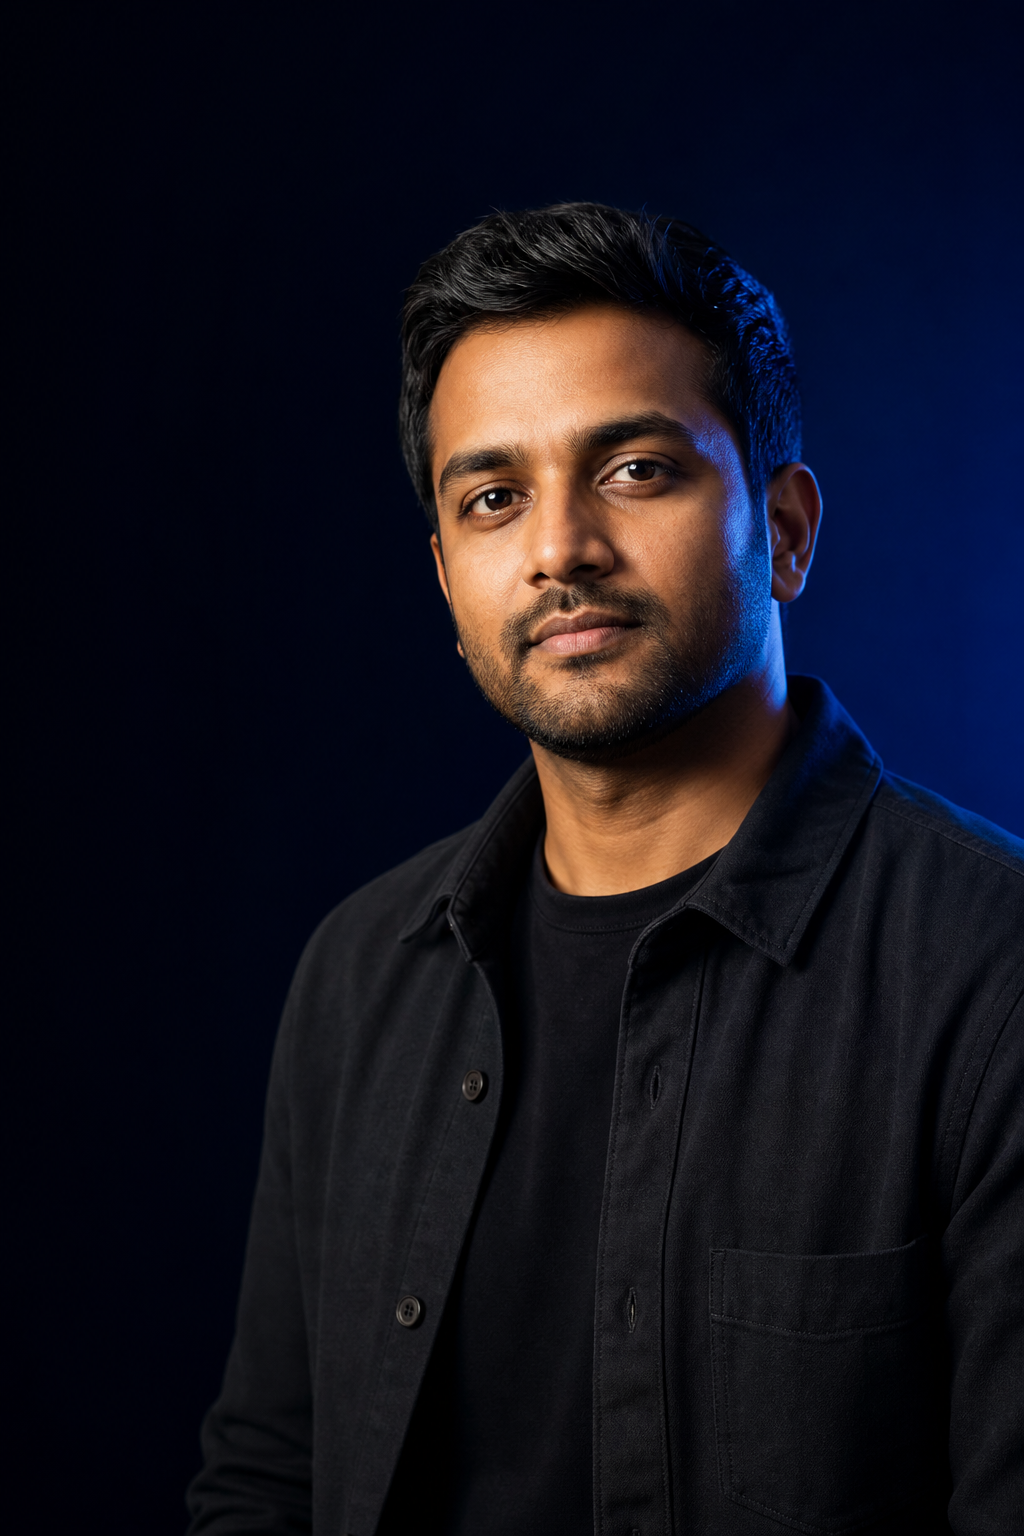
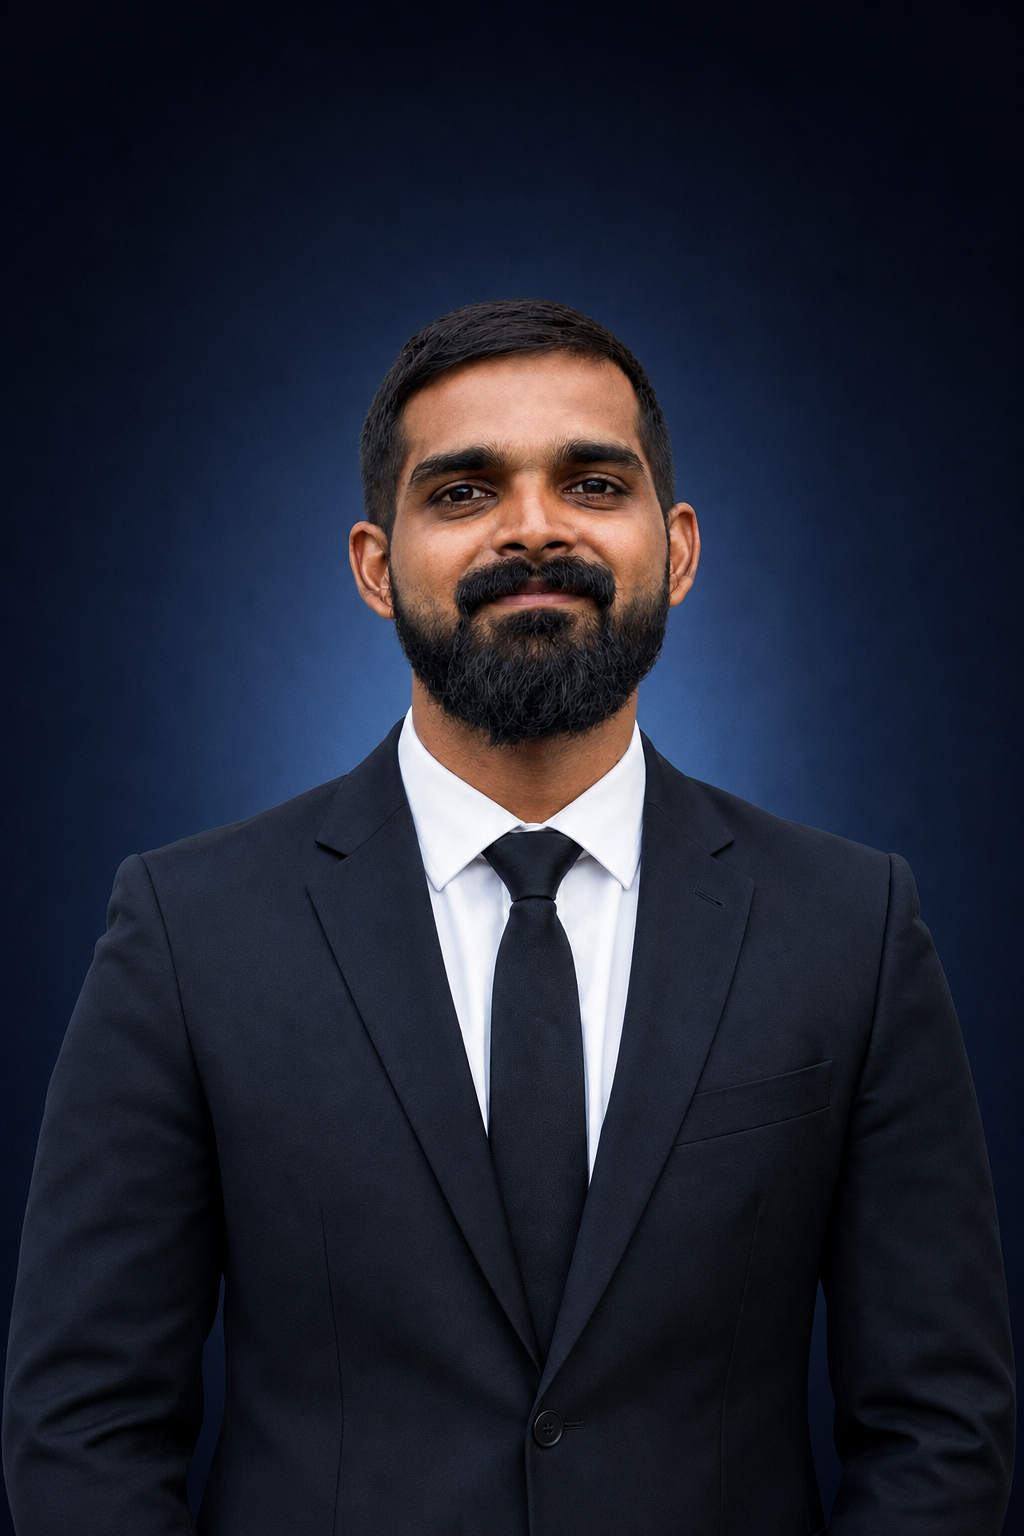
photo

diff --git a/about.html b/about.html
@@ -35,7 +35,7 @@
         <div class="relative z-10 mx-auto flex min-h-[min(860px,100vh)] max-w-7xl items-center px-5 pb-16 pt-32 lg:px-8">
           <div class="grid w-full items-center gap-12 lg:grid-cols-[1.08fr_.92fr] lg:gap-16">
             <div class="reveal"><p class="mb-6 text-xs font-bold uppercase tracking-[.2em] text-blue-200/70">About Ashwin</p><h1 class="font-display max-w-3xl text-4xl font-extrabold leading-[1.03] tracking-[-.06em] text-white sm:text-5xl lg:text-6xl">A growth partner who stays close to the work.</h1><p class="mt-7 max-w-2xl text-base leading-8 text-slate-300 sm:text-lg">I combine business thinking, performance marketing and practical delivery to help ambitious UAE businesses turn more attention into revenue.</p><p class="mt-4 max-w-2xl text-base leading-8 text-slate-400">The goal is not more dashboards or noise. It is a clear growth system your team understands, can trust and can keep improving.</p><div class="mt-9 flex flex-col gap-3 sm:flex-row"><a data-whatsapp class="inline-flex items-center justify-center rounded-xl bg-white px-5 py-3.5 text-sm font-semibold text-slate-950 transition hover:-translate-y-1 hover:bg-blue-50" href="contact.html">Work with Ashwin <span class="ml-2">↗</span></a><a class="inline-flex items-center justify-center rounded-xl border border-white/15 px-5 py-3.5 text-sm font-semibold text-white transition hover:-translate-y-1 hover:border-blue-300/70 hover:bg-blue-400/10" href="case-studies.html">View selected work <span class="ml-2 text-blue-300">→</span></a></div></div>
-            <div class="reveal relative mx-auto w-full max-w-sm lg:ml-auto" style="transition-delay:.12s"><div class="absolute -inset-8 rounded-full bg-blue-500/20 blur-3xl"></div><div class="relative overflow-hidden rounded-[24px] border border-white/15 bg-[#0b1023]/80 p-2 shadow-2xl"><img class="h-[440px] w-full rounded-[17px] object-cover object-center" src="assets/ashwin-james-portrait.png" width="1024" height="1536" alt="Ashwin James" /><div class="absolute left-5 top-5 inline-flex items-center gap-2 rounded-full border border-emerald-300/20 bg-[#07131a]/85 px-3 py-1.5 text-[10px] font-bold uppercase tracking-[.14em] text-emerald-200 backdrop-blur"><span class="h-1.5 w-1.5 rounded-full bg-emerald-400"></span>Available to work</div><div class="absolute inset-x-2 bottom-2 rounded-b-[17px] bg-gradient-to-t from-[#070a13] via-[#070a13]/80 to-transparent px-5 pb-5 pt-16"><p class="font-display text-lg font-bold text-white">Ashwin James</p><p class="mt-1 text-sm text-slate-300">Performance Marketing &amp; Growth Systems</p></div></div><div class="absolute -bottom-5 -left-5 rounded-xl border border-white/10 bg-[#0b1023]/90 px-4 py-3 text-sm text-slate-300 shadow-xl backdrop-blur"><span class="block text-[10px] font-bold uppercase tracking-[.15em] text-blue-300">Operating principle</span><span class="mt-1 block">Build the system, not just the campaign.</span></div></div>
+            <div class="reveal relative mx-auto w-full max-w-sm lg:ml-auto" style="transition-delay:.12s"><div class="absolute -inset-8 rounded-full bg-blue-500/20 blur-3xl"></div><div class="relative overflow-hidden rounded-[24px] border border-white/15 bg-[#0b1023]/80 p-2 shadow-2xl"><img class="h-[440px] w-full rounded-[17px] object-cover object-[center_42%]" src="assets/ashwin-james-portrait.png" width="1024" height="1536" alt="Professional portrait of Ashwin James" fetchpriority="high" /><div class="absolute left-5 top-5 inline-flex items-center gap-2 rounded-full border border-emerald-300/20 bg-[#07131a]/85 px-3 py-1.5 text-[10px] font-bold uppercase tracking-[.14em] text-emerald-200 backdrop-blur"><span class="h-1.5 w-1.5 rounded-full bg-emerald-400"></span>Available to work</div><div class="absolute inset-x-2 bottom-2 rounded-b-[17px] bg-gradient-to-t from-[#070a13] via-[#070a13]/80 to-transparent px-5 pb-5 pt-16"><p class="font-display text-lg font-bold text-white">Ashwin James</p><p class="mt-1 text-sm text-slate-300">Performance Marketing &amp; Growth Systems</p></div></div><div class="absolute -bottom-5 -left-5 rounded-xl border border-white/10 bg-[#0b1023]/90 px-4 py-3 text-sm text-slate-300 shadow-xl backdrop-blur"><span class="block text-[10px] font-bold uppercase tracking-[.15em] text-blue-300">Operating principle</span><span class="mt-1 block">Build the system, not just the campaign.</span></div></div>
           </div>
         </div>
       </section>
@@ -137,7 +137,7 @@
         <div class="relative z-10 mx-auto flex min-h-[min(860px,100vh)] max-w-7xl items-center px-5 pb-16 pt-32 lg:px-8">
           <div class="grid w-full items-center gap-12 lg:grid-cols-[1.08fr_.92fr] lg:gap-16">
             <div class="reveal"><p class="mb-6 text-xs font-bold uppercase tracking-[.2em] text-blue-200/70">About Ashwin</p><h1 class="font-display max-w-3xl text-4xl font-extrabold leading-[1.03] tracking-[-.06em] text-white sm:text-5xl lg:text-6xl">A growth partner who stays close to the work.</h1><p class="mt-7 max-w-2xl text-base leading-8 text-slate-300 sm:text-lg">I combine business thinking, performance marketing and practical delivery to help ambitious UAE businesses turn more attention into revenue.</p><p class="mt-4 max-w-2xl text-base leading-8 text-slate-400">The goal is not more dashboards or noise. It is a clear growth system your team understands, can trust and can keep improving.</p><div class="mt-9 flex flex-col gap-3 sm:flex-row"><a data-whatsapp class="inline-flex items-center justify-center rounded-xl bg-white px-5 py-3.5 text-sm font-semibold text-slate-950 transition hover:-translate-y-1 hover:bg-blue-50" href="contact.html">Work with Ashwin <span class="ml-2">↗</span></a><a class="inline-flex items-center justify-center rounded-xl border border-white/15 px-5 py-3.5 text-sm font-semibold text-white transition hover:-translate-y-1 hover:border-blue-300/70 hover:bg-blue-400/10" href="case-studies.html">View selected work <span class="ml-2 text-blue-300">→</span></a></div></div>
-            <div class="reveal relative mx-auto w-full max-w-sm lg:ml-auto" style="transition-delay:.12s"><div class="absolute -inset-8 rounded-full bg-blue-500/20 blur-3xl"></div><div class="relative overflow-hidden rounded-[24px] border border-white/15 bg-[#0b1023]/80 p-2 shadow-2xl"><img class="h-[440px] w-full rounded-[17px] object-cover object-center" src="assets/ashwin-james-portrait.png" width="1024" height="1536" alt="Ashwin James" /><div class="absolute left-5 top-5 inline-flex items-center gap-2 rounded-full border border-emerald-300/20 bg-[#07131a]/85 px-3 py-1.5 text-[10px] font-bold uppercase tracking-[.14em] text-emerald-200 backdrop-blur"><span class="h-1.5 w-1.5 rounded-full bg-emerald-400"></span>Available to work</div><div class="absolute inset-x-2 bottom-2 rounded-b-[17px] bg-gradient-to-t from-[#070a13] via-[#070a13]/80 to-transparent px-5 pb-5 pt-16"><p class="font-display text-lg font-bold text-white">Ashwin James</p><p class="mt-1 text-sm text-slate-300">Performance Marketing &amp; Growth Systems</p></div></div><div class="absolute -bottom-5 -left-5 rounded-xl border border-white/10 bg-[#0b1023]/90 px-4 py-3 text-sm text-slate-300 shadow-xl backdrop-blur"><span class="block text-[10px] font-bold uppercase tracking-[.15em] text-blue-300">Operating principle</span><span class="mt-1 block">Build the system, not just the campaign.</span></div></div>
+            <div class="reveal relative mx-auto w-full max-w-sm lg:ml-auto" style="transition-delay:.12s"><div class="absolute -inset-8 rounded-full bg-blue-500/20 blur-3xl"></div><div class="relative overflow-hidden rounded-[24px] border border-white/15 bg-[#0b1023]/80 p-2 shadow-2xl"><img class="h-[440px] w-full rounded-[17px] object-cover object-[center_42%]" src="assets/ashwin-james-portrait.png" width="1024" height="1536" alt="Professional portrait of Ashwin James" fetchpriority="high" /><div class="absolute left-5 top-5 inline-flex items-center gap-2 rounded-full border border-emerald-300/20 bg-[#07131a]/85 px-3 py-1.5 text-[10px] font-bold uppercase tracking-[.14em] text-emerald-200 backdrop-blur"><span class="h-1.5 w-1.5 rounded-full bg-emerald-400"></span>Available to work</div><div class="absolute inset-x-2 bottom-2 rounded-b-[17px] bg-gradient-to-t from-[#070a13] via-[#070a13]/80 to-transparent px-5 pb-5 pt-16"><p class="font-display text-lg font-bold text-white">Ashwin James</p><p class="mt-1 text-sm text-slate-300">Performance Marketing &amp; Growth Systems</p></div></div><div class="absolute -bottom-5 -left-5 rounded-xl border border-white/10 bg-[#0b1023]/90 px-4 py-3 text-sm text-slate-300 shadow-xl backdrop-blur"><span class="block text-[10px] font-bold uppercase tracking-[.15em] text-blue-300">Operating principle</span><span class="mt-1 block">Build the system, not just the campaign.</span></div></div>
           </div>
         </div>
       </section>
